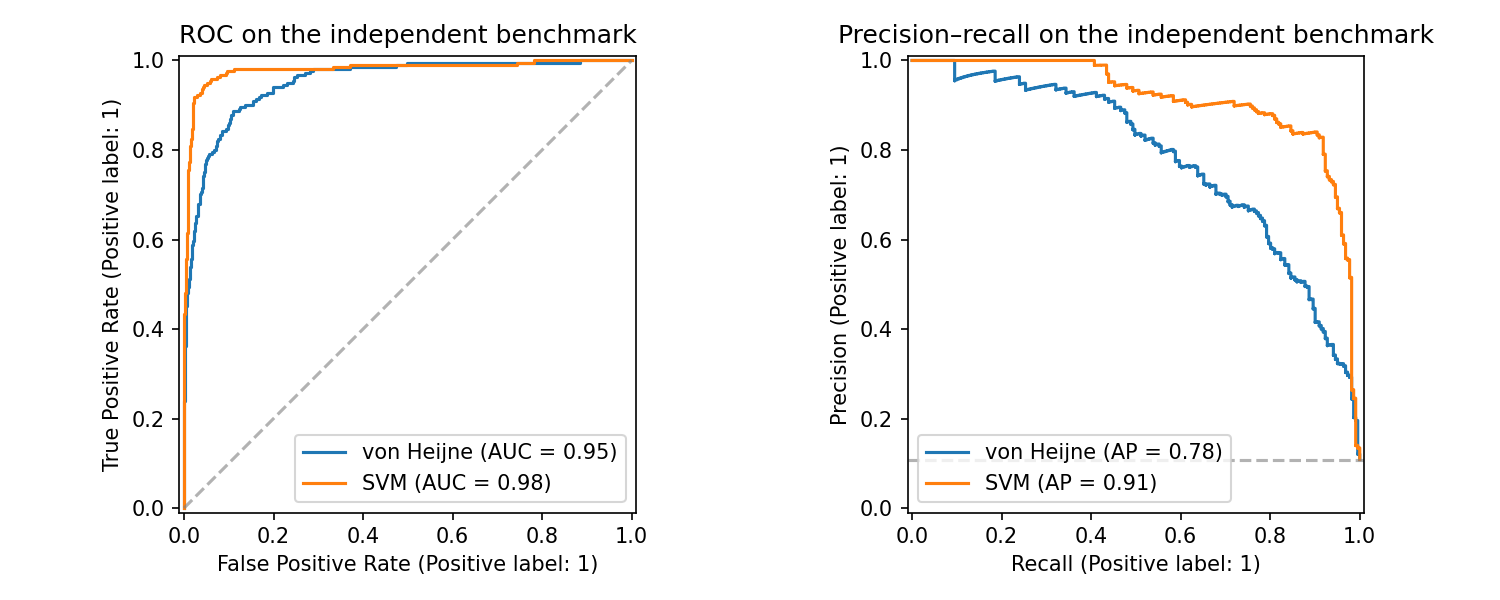
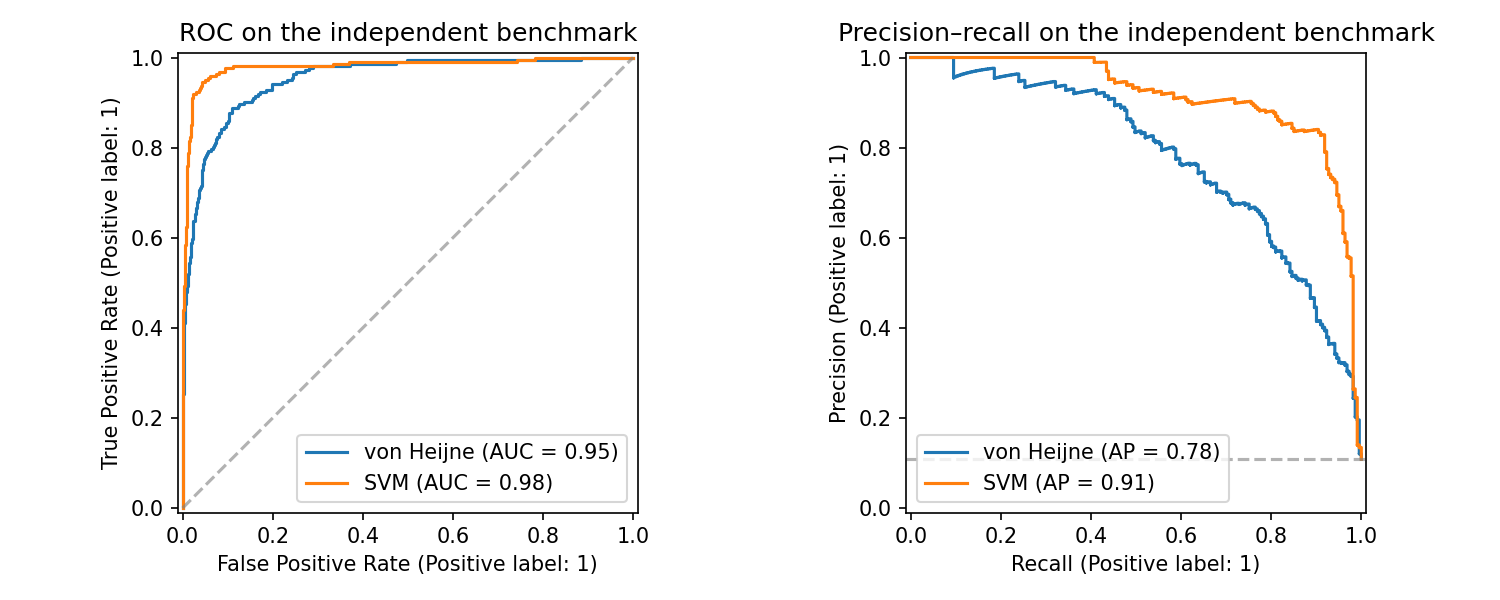
Remove exploratory notebooks, add kingdom error analysis, and finalize README

diff --git a/src/benchmark.py b/src/benchmark.py
@@ -23,6 +23,7 @@ def run():
         "SVM": RESULTS / "svm" / "svm_benchmark_predictions.tsv",
     }
     scores, groups = [], []
+    preds = {}
     fig, (roc, pr) = plt.subplots(1, 2, figsize=(10, 4))
     for method, path in methods.items():
         pred = pd.read_csv(path, sep="\t").set_index("accession")
@@ -31,6 +32,9 @@ def run():
         pred = pred.reindex(expected.index)
         if not pred.label.equals(expected.label) or not pred.pred.isin((0, 1)).all():
             raise ValueError(f"{method}: benchmark labels or predictions are invalid")
+        if "kingdom" not in pred.columns:
+            pred["kingdom"] = expected["kingdom"]
+        preds[method] = pred
         y = expected.label
         tn, fp, fn, tp = confusion_matrix(y, pred.pred, labels=[0, 1]).ravel()
         scores.append({
@@ -62,6 +66,28 @@ def run():
         table = pd.DataFrame(rows)
         table.to_csv(RESULTS / f"{name}.tsv", sep="\t", index=False, float_format="%.6f")
         print(table.round(4).to_string(index=False))
+
+    # Kingdom-level error comparison across both models (FNR and FPR)
+    kingdom_rows = []
+    for method_name, pred_df in preds.items():
+        for kingdom, grp in pred_df.groupby("kingdom"):
+            pos = grp[grp["label"] == 1]
+            neg = grp[grp["label"] == 0]
+            fn = int((pos["pred"] == 0).sum())
+            fp = int((neg["pred"] == 1).sum())
+            kingdom_rows.append({
+                "method": method_name,
+                "kingdom": kingdom,
+                "positives": len(pos),
+                "false_negatives": fn,
+                "false_negative_rate": round(fn / len(pos), 6) if len(pos) else 0.0,
+                "negatives": len(neg),
+                "false_positives": fp,
+                "false_positive_rate": round(fp / len(neg), 6) if len(neg) else 0.0,
+            })
+
+    kingdom_df = pd.DataFrame(kingdom_rows)
+    kingdom_df.to_csv(RESULTS / "benchmark_kingdom_errors.tsv", sep="\t", index=False)
 
 
 if __name__ == "__main__":

diff --git a/README.md b/README.md
@@ -20,7 +20,7 @@ predictors on the same independent benchmark: the classical **von Heijne positio
 | At a glance | von Heijne | SVM |
 |---|---|---|
 | Benchmark MCC | 0.657 | **0.853** |
-| Benchmark ROC AUC | 0.952 | **0.981** |
+| Benchmark ROC AUC | 0.953 | **0.981** |
 | False-positive rate on negatives with an N-terminal TM helix | 15.1% | **10.3%** |
 
 The SVM is clearly better on every metric, but both methods are least reliable on proteins whose N-terminal
@@ -77,7 +77,6 @@ is used only to define the positives; predicting it is a separate task not addre
 │   ├── svm.py                       # SVM features, nested cross-validation, final model
 │   ├── benchmark.py                 # benchmark comparison and error analysis
 │   └── features.py                  # exploratory features (separate from the reported SVM)
-├── notebooks/                       # exploratory notebooks
 ├── figures/                         # generated plots and cleavage-site logos
 └── results/                         # metrics, confusion counts, subgroup errors, ROC / PR curves
 ```
@@ -111,7 +110,7 @@ once, for the final models only.
 ## Methods and results
 
 This section documents everything that was done, from the raw UniProt download to the final comparison of the two
-predictors. Lines marked `TODO` must be checked or filled from the files in `results/` before the section is merged.
+predictors.
 
 ### 1. Pipeline overview
 
@@ -144,7 +143,7 @@ cleavage-site context, and an **RBF-kernel support vector machine** that learns 
 | 6 | von Heijne method | Weight matrix, threshold selection and cross-validation (section 4). | `src/models.py` | `results/` |
 | 7 | SVM | Feature extraction, Random-Forest feature selection, nested cross-validation (section 5). | `src/svm.py` | `results/` |
 | 8 | Benchmark comparison | Both final models scored once on the independent benchmark; ROC and precision-recall curves. | `src/benchmark.py` | `results/` |
-| 9 | Error analysis | False positives against N-terminal TM helices, errors per kingdom (section 7). | `src/benchmark.py` | `results/` |
+| 9 | Error analysis | False positives against N-terminal TM helices, false-negative composition, and errors per kingdom (section 7). | `src/benchmark.py`, `src/svm.py` | `results/` |
 
 ### 3. Dataset
 
@@ -183,10 +182,14 @@ positive when this score reaches a threshold.
 
 **Choosing the threshold (never on the test data).** Five runs of cross-validation: in each run three folds fit the
 matrix, the next fold selects the MCC-optimal threshold, and a separate fold measures performance. For the final model,
-one cutoff is chosen from training-only out-of-fold scores, the matrix is refitted on all training positives, and the
-benchmark is scored once.
+one cutoff (6.49) is chosen from training-only out-of-fold scores, the matrix is refitted on all training positives, and
+the benchmark is scored once.
 
-**Cross-validated performance (mean ± standard error over five runs):** `TODO: insert from results/`
+**Cross-validated performance (mean ± standard error over five runs, `results/von_heijne_cv.csv`):**
+
+| MCC | Precision | Recall | F1 | Accuracy |
+|---|---|---|---|---|
+| 0.665 ± 0.016 | 0.694 ± 0.040 | 0.717 ± 0.033 | 0.699 ± 0.013 | 0.933 ± 0.005 |
 
 ### 5. Support vector machine
 
@@ -199,8 +202,6 @@ benchmark is scored once.
 - **Hydropathy:** Kyte-Doolittle profile (window 5) over the first 40 residues: maximum, mean and position of the peak.
 - **Charge:** net charge of residues 1 to 10 (K, R positive; D, E negative).
 
-`TODO: confirm the feature list and window sizes against src/svm.py`
-
 **Model.** Features, then Random-Forest importance ranking (500 trees, fixed seed), then the top-*k* features,
 then `StandardScaler`, then `SVC(kernel="rbf", class_weight="balanced")`.
 
@@ -209,39 +210,42 @@ then `StandardScaler`, then `SVC(kernel="rbf", class_weight="balanced")`.
 - *Inner loop (model selection):* 4-fold cross-validation on the remaining folds chooses *k*, *C* and gamma by mean MCC.
 - *n*, the feature ranking, the scaler and the SVM are all fitted on training data only, separately in every fold, so the
   test fold never influences a choice.
-- *Final model:* 5-fold cross-validation over the grid on the whole training set, refit on the whole training set, then
-  one evaluation on the benchmark.
+- *Final model:* 5-fold cross-validation over the grid on the whole training set (mean MCC = 0.809, selecting *k* = 24,
+  *C* = 1, gamma = 0.0833), refit on the whole training set, then one evaluation on the benchmark.
 
-**Nested cross-validation (mean ± standard error over five outer folds):**
+**Nested cross-validation (mean ± standard error over five outer folds, `results/svm/svm_nested_cv_per_fold.csv`):**
 
 | MCC | Precision | Recall | F1 | Accuracy |
 |---|---|---|---|---|
 | 0.806 ± 0.003 | 0.771 ± 0.005 | 0.890 ± 0.006 | 0.826 ± 0.003 | 0.959 ± 0.001 |
 
-`TODO: verify these figures against the per-fold table in results/`
-
 ### 6. Independent benchmark results
 
-| Method | MCC | Precision | Recall | F1 | Accuracy | ROC AUC |
-|---|---|---|---|---|---|---|
-| von Heijne | 0.657 | 0.708 | 0.679 | 0.693 | 0.935 | 0.952 |
-| SVM | 0.853 | 0.840 | 0.900 | 0.869 | 0.971 | 0.981 |
+Full metrics and curves are saved in [`results/benchmark_metrics.tsv`](results/benchmark_metrics.tsv) and
+[`results/benchmark_curves.png`](results/benchmark_curves.png):
 
-Confusion counts on the 2,038 benchmark proteins (consistent with the rates above; `TODO: check against results/`):
+| Method | MCC | Precision | Recall | F1 | Accuracy | ROC AUC | PR AUC |
+|---|---|---|---|---|---|---|---|
+| von Heijne | 0.657 | 0.708 | 0.679 | 0.693 | 0.935 | 0.953 | 0.780 |
+| SVM | **0.853** | **0.840** | **0.900** | **0.869** | **0.971** | **0.981** | **0.914** |
+
+Confusion counts on the 2,038 benchmark proteins:
 
 | Method | TP | FN | FP | TN |
 |---|---|---|---|---|
 | von Heijne | 150 | 71 | 62 | 1,755 |
 | SVM | 199 | 22 | 38 | 1,779 |
 
+![ROC and precision-recall curves on the independent benchmark](results/benchmark_curves.png)
+
 The two cross-validation protocols differ in training size and tuning scheme, so the shared independent benchmark is the
-direct comparison. The SVM scores clearly higher on every metric. A gap of this size (MCC 0.66 against 0.85) is large
+direct comparison. The SVM scores clearly higher on every metric. A gap of this size (MCC 0.657 against 0.853) is large
 compared with the sampling noise of 221 positives, but no paired significance test has been run yet.
 
 ### 7. Error analysis
 
 **False positives and N-terminal transmembrane helices.** The hydrophobic stretch of an N-terminal TM helix resembles
-the h-region of a signal peptide, so both methods are expected to confuse them.
+the h-region of a signal peptide, so both methods are expected to confuse them ([`results/benchmark_tm_false_positives.tsv`](results/benchmark_tm_false_positives.tsv)).
 
 | Negatives | von Heijne false positives | SVM false positives |
 |---|---|---|
@@ -251,12 +255,14 @@ the h-region of a signal peptide, so both methods are expected to confuse them.
 Both methods are about seven to ten times less specific on the TM subset, and the SVM makes fewer false positives in
 both groups.
 
-**False negatives.** For the SVM, the missed signal peptides tend to have less alanine and leucine in the N-terminus than
-the correctly detected ones. With only a few dozen cases this is a tendency, not a result.
-`TODO: add the von Heijne false-negative cleavage-site logo (expected vs missed) from figures/`
+**False negatives.** For the SVM, the missed signal peptides tend to have less leucine (13.7% vs 22.3% in true positives)
+and alanine (9.9% vs 13.6%) and more polar/charged residues (glutamine 4.8% vs 2.0%, arginine 5.6% vs 2.8%) in the
+N-terminus than the correctly detected ones ([`results/svm/svm_fn_composition.csv`](results/svm/svm_fn_composition.csv)).
+With only 22 false negatives this is a tendency rather than a definitive subgroup effect.
 
 **Taxonomy.** The benchmark contains few positives outside Metazoa (roughly 16 plant, 17 fungal and 5 other), so
-per-kingdom error rates are very uncertain. See the subgroup tables in `results/`.
+per-kingdom error rates are very uncertain. Side-by-side per-kingdom false-positive and false-negative rates for both
+models are saved in [`results/benchmark_kingdom_errors.tsv`](results/benchmark_kingdom_errors.tsv).
 
 ### 8. Limitations
 
@@ -266,15 +272,15 @@ per-kingdom error rates are very uncertain. See the subgroup tables in `results/
   A composition-based model may partly learn taxonomic signal; the per-kingdom analysis is there to check this.
 - Some negatives are multi-localized proteins that also carry a secretory annotation but no signal peptide.
 - A few sequences contain non-standard residues (U, B, X); they are ignored when computing composition.
-- The Random-Forest selection kept all features in every fold in our runs, so it did not reduce the feature set.
+- The Random-Forest selection kept all 24 features in every fold in our runs, so it did not reduce the feature set.
 - Only the Sec/SPI-like, cleaved signal peptides with experimental evidence are modeled; leaderless secretion and
   uncleaved signal anchors are outside the task.
 
 ### 9. Next steps
 - Paired significance test (McNemar) and bootstrap confidence intervals for the MCC difference.
 - Extended SVM feature set separating signal peptides from TM helices (longer hydropathy window, hydrophobic run length,
-  n-region charges, c-region polarity); on the training set it raised the cross-validated MCC from 0.817 to 0.861,
-  to be confirmed with the repository's own pipeline before reporting.
+  n-region charges, c-region polarity); on the training set it raised the non-nested 5-fold CV MCC from 0.817 to 0.861,
+  to be confirmed with the repository's nested CV pipeline before reporting.
 - Ablations: linear against RBF kernel, with and without class weighting.
 
 ## How to reproduce
@@ -303,7 +309,6 @@ python -m src.benchmark            # benchmark comparison and error analysis
 - `collect_negative_candidates.py` queries the live UniProt database and can return different data in a later release;
   the committed inputs in `data/raw/` are the ones used here.
 
-
 ## Authors and contributions
 
 | Member | GitHub | Main contributions |
@@ -314,8 +319,6 @@ python -m src.benchmark            # benchmark comparison and error analysis
 | [name] | [@handle] | von Heijne method and its cross-validation |
 | [name] | [@handle] | SVM: features, nested cross-validation, final model |
 | [name] | [@handle] | Benchmark comparison, error analysis and report |
-
-Every member should be able to explain every step of the pipeline in the oral exam.
 
 ## References
 
